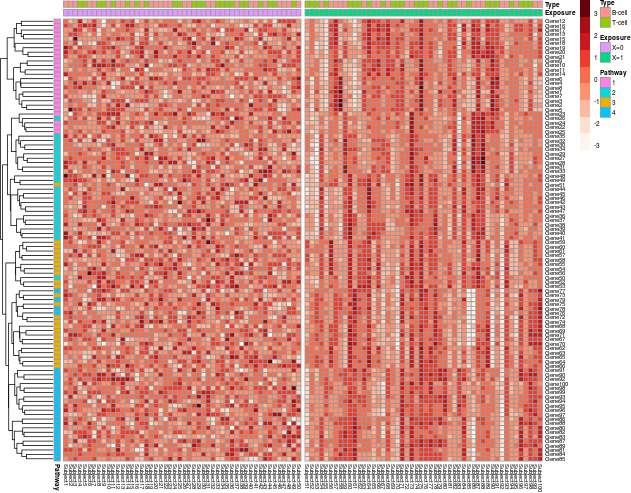
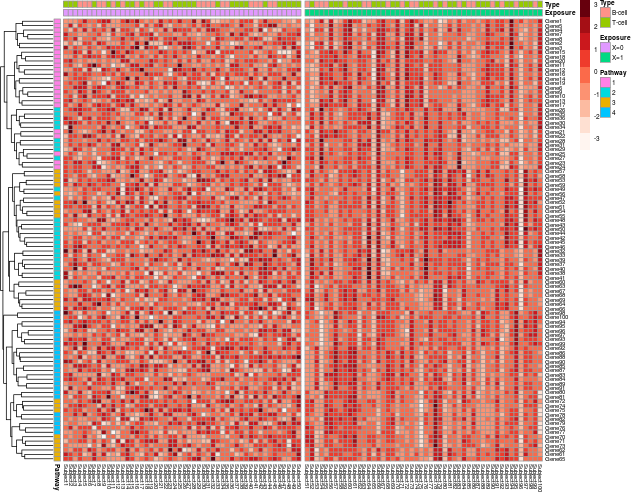
fixed posts

diff --git a/_posts/2015-06-10-heatmaps.md b/_posts/2015-06-10-heatmaps.md
@@ -50,12 +50,12 @@ genes[1:5, 1:5]
 
 
 {% highlight text %}
-##                Gene1       Gene2       Gene3      Gene4      Gene5
-## Subject1 -0.21388363 -0.73895778 -1.62244200 -0.7670910 -1.2893051
-## Subject2  0.05414553 -0.07205968  1.02942663  0.5194605  2.9329446
-## Subject3  0.12213000 -0.56763583  0.06170327  1.7873641  1.1564475
-## Subject4 -0.48278782  0.41785909  0.12291973  0.5366555  1.0984578
-## Subject5 -0.22778084  0.03460818 -0.31902682  1.8980194 -0.3785006
+##               Gene1        Gene2       Gene3      Gene4      Gene5
+## Subject1 -1.2024073 -1.283529409  1.77994226  0.1761248 -0.9443026
+## Subject2 -0.6131466  0.003380379 -0.60262147 -1.5518148  1.3353530
+## Subject3 -0.5565568 -1.283802236  0.25990618  0.7488532 -1.8311084
+## Subject4 -0.4274262 -1.337640372 -0.02410968 -1.0283026  0.7542311
+## Subject5  1.4196902  0.521083500 -0.96983041  1.2298000 -0.1905627
 {% endhighlight %}
 
 ----
@@ -114,11 +114,11 @@ head(annotation_col)
 
 {% highlight text %}
 ##          Exposure   Type
-## Subject1      X=0 B-cell
-## Subject2      X=0 B-cell
-## Subject3      X=0 B-cell
-## Subject4      X=0 T-cell
-## Subject5      X=0 T-cell
+## Subject1      X=0 T-cell
+## Subject2      X=0 T-cell
+## Subject3      X=0 T-cell
+## Subject4      X=0 B-cell
+## Subject5      X=0 B-cell
 ## Subject6      X=0 B-cell
 {% endhighlight %}
 
@@ -181,6 +181,7 @@ It is also possible to create Interactive heatmaps (in the sense that you can se
 
 {% highlight r %}
 pacman::p_install_gh("rstudio/d3heatmap")
+pacman::p_load(webshot)
 {% endhighlight %}
 
 This is useful if you are producible markdown reports. The syntax is standard, though does not allow for multiple annotations as in `pheatmap`.
@@ -194,7 +195,7 @@ d3heatmap(t(genes), colors = "Reds", Colv = FALSE)
 
 
 {% highlight text %}
-## Error in loadNamespace(name): there is no package called 'webshot'
+## Error in file(con, "rb"): cannot open the connection
 {% endhighlight %}
 
 For some reason, this map is not showing up on this website, but it should work when compiling Rmarkdown scripts and viewing the resulting HTML document in your browser or within RStudio.
@@ -214,7 +215,7 @@ plotly::plot_ly(z = expression, colorscale = col.pal, type = "heatmap")
 
 
 {% highlight text %}
-## Error in loadNamespace(name): there is no package called 'webshot'
+## Error in file(con, "rb"): cannot open the connection
 {% endhighlight %}
 
 ----

diff --git a/_posts/2016-02-08-facet_wrap_labels.md b/_posts/2016-02-08-facet_wrap_labels.md
@@ -13,17 +13,6 @@ comments: yes
 
 In this post I show how we can use $$\LaTeX$$ math expressions to label the panels in facets to produce the following plot:
 
-
-{% highlight text %}
-## Error in r_files[[which]]: invalid subscript type 'closure'
-{% endhighlight %}
-
-
-
-{% highlight text %}
-## Error in combine_vars(data, params$plot_env, vars, drop = params$drop): At least one layer must contain all variables used for facetting
-{% endhighlight %}
-
 <img src="/figure/posts/2016-02-08-facet_wrap_labels/unnamed-chunk-1-1.png" title="plot of chunk unnamed-chunk-1" alt="plot of chunk unnamed-chunk-1" style="display: block; margin: auto;" />
 
 
@@ -44,14 +33,7 @@ I have posted some sample data in a [GitHub Gist](https://gist.github.com/sahirb
 
 
 {% highlight r %}
-data <- devtools::source_gist("https://gist.github.com/sahirbhatnagar/ed3caf50247cae8e3e1c",
-                              sha1 = "3073e2ea147ce2818fa4e8841c6efa227378e1aa")$value
-{% endhighlight %}
-
-
-
-{% highlight text %}
-## Error in r_files[[which]]: invalid subscript type 'closure'
+data <- devtools::source_gist(id = "ed3caf50247cae8e3e1c", filename = "facet_data.R")$value
 {% endhighlight %}
 
 Then we create a labelling function which takes as input a string and prepends $$\log(\lambda_{\gamma})$$ to it. Note that `latex2exp::TeX` is the workhorse function that parses $$\LaTeX$$ syntax so that `R` understands it. Otherwise it becomes very messy to try and write more complex math expressions in `R`.
